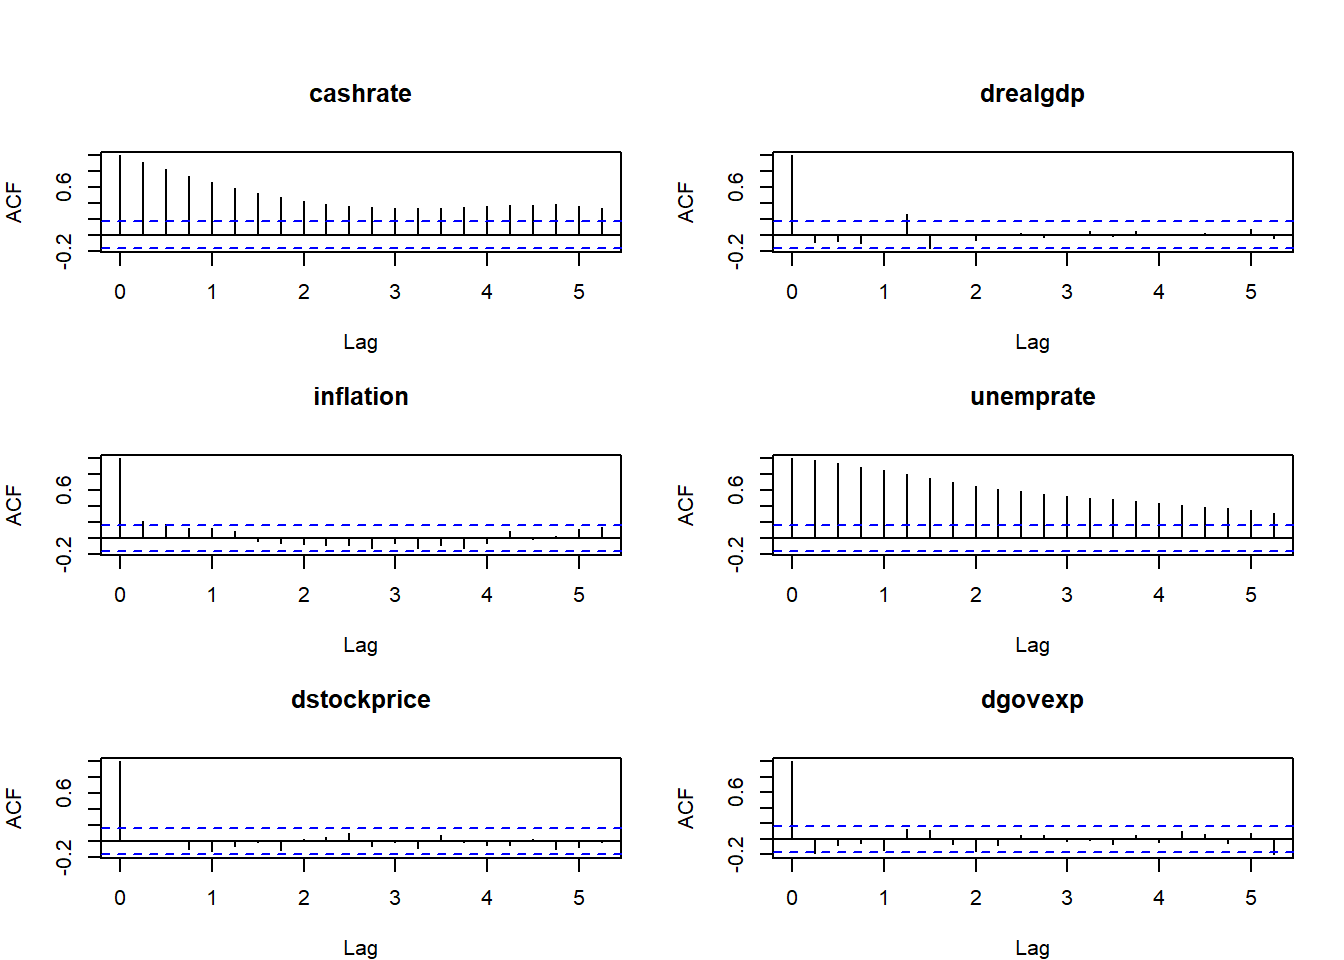
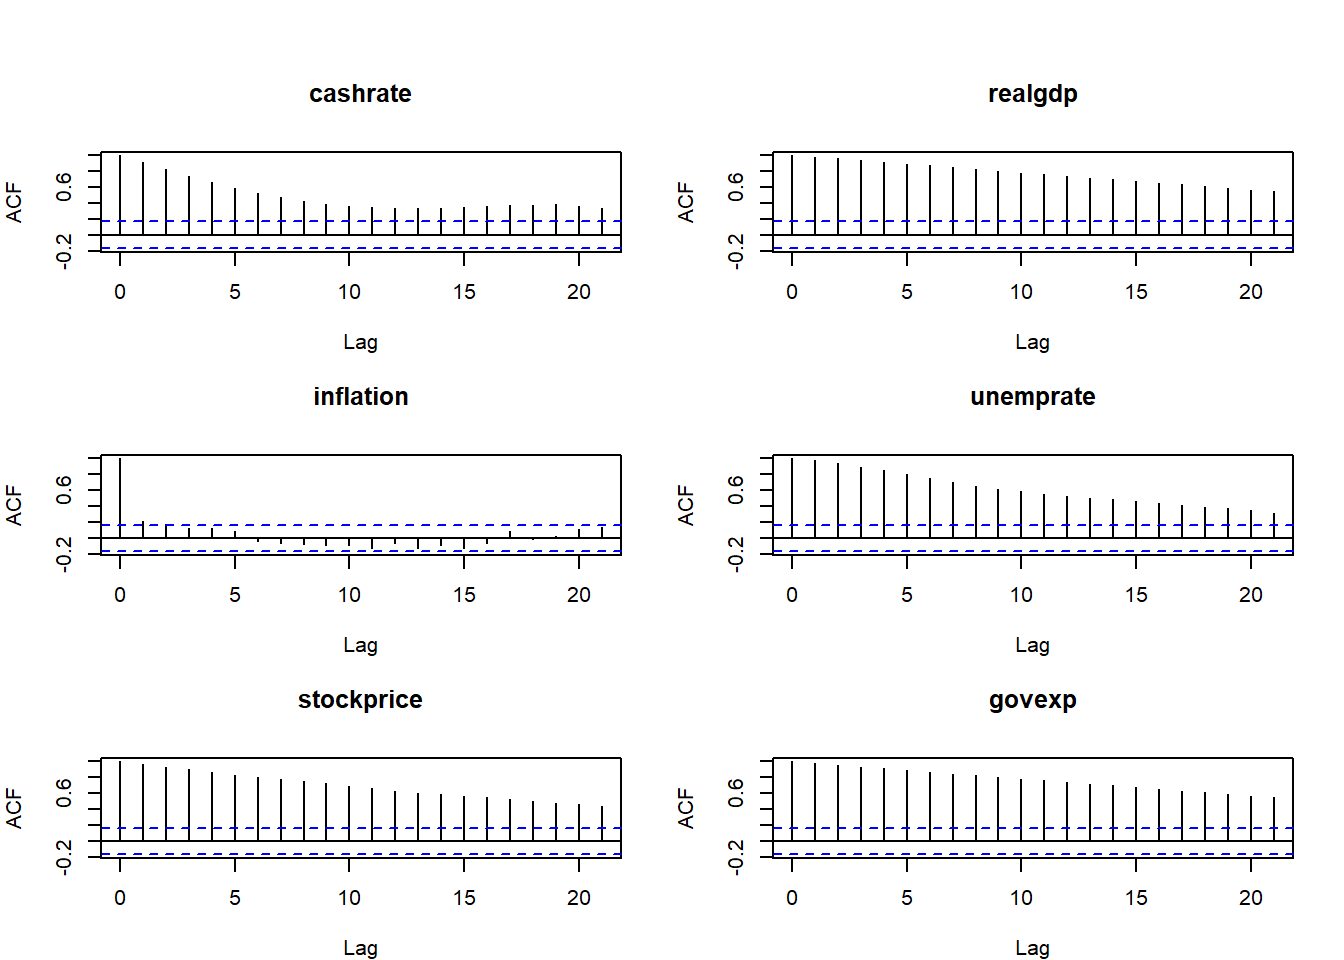
incorporating changes in website

diff --git a/docs/index.html b/docs/index.html
@@ -8,7 +8,7 @@
 
 <meta name="author" content="Pun Suparattanapinan">
 
-<title>Macroeconometrics Research Report - The impact of monetary policy on the real economy and the stock market: The case of Australia</title>
+<title>Macroeconometrics Research Report - The Impact of Monetary Policy on the Real Economy and the Stock Market: The Case of Australia</title>
 <style>
 code{white-space: pre-wrap;}
 span.smallcaps{font-variant: small-caps;}
@@ -166,7 +166,7 @@ window.Quarto = {
 
 <header id="title-block-header" class="quarto-title-block default">
 <div class="quarto-title">
-<h1 class="title">The impact of monetary policy on the real economy and the stock market: The case of Australia</h1>
+<h1 class="title">The Impact of Monetary Policy on the Real Economy and the Stock Market: The Case of Australia</h1>
 </div>
 
 
@@ -217,13 +217,13 @@ window.Quarto = {
 <h5 class="anchored" data-anchor-id="figure-1-time-series-plots-raw-data">Figure 1: time series plots (raw data)</h5>
 </section>
 <p><br></p>
-<p>The author transforms the data in manner that aligns with the purpose of study. The AORD and total government expenditure are adjusted to real terms using the GDP deflator. After that, the author transforms 3 variables that are in real terms, namely GDP, AORD, and total government expenditure, to represent growth by taking the difference of logarithms, denoted by <strong><em>drealgdp</em></strong>, <strong><em>dstockprice</em></strong>, and <strong><em>dgovexp</em></strong> respectively. <a href="#figure-2-time-series-plots-transformed-data">Figure 2: time series plots (transformed data)</a> represents the transformed data, which will be analyzed further.</p>
+<p>The author transforms the data in manner that aligns with the purpose of study. The total government expenditure are adjusted to real terms using the GDP deflator. After that, the author transforms 4 variables which are real GDP, AORD, inflation, and real government expenditure in logarithms term, denoted by <strong><em>realgdp</em></strong>, <strong><em>stockprice</em></strong>, and <strong><em>govexp</em></strong> respectively. <a href="#figure-2-time-series-plots-transformed-data">Figure 2: time series plots (transformed data)</a> represents the transformed data, which will be analyzed further.</p>
 <p><br></p>
 <div class="cell">
 <div class="cell-output-display">
 <div>
 <figure class="figure">
-<p><img src="index_files/figure-html/Plotting the data-1.png" class="img-fluid figure-img" width="672"></p>
+<p><img src="index_files/figure-html/Plotting the transformed data-1.png" class="img-fluid figure-img" width="672"></p>
 </figure>
 </div>
 </div>
@@ -257,12 +257,12 @@ window.Quarto = {
 <td style="text-align: right;">16.750</td>
 </tr>
 <tr class="even">
-<td style="text-align: left;">drealgdp</td>
+<td style="text-align: left;">realgdp</td>
 <td style="text-align: right;">136</td>
-<td style="text-align: right;">0.716</td>
-<td style="text-align: right;">1.016</td>
-<td style="text-align: right;">-7.178</td>
-<td style="text-align: right;">4.062</td>
+<td style="text-align: right;">5.957</td>
+<td style="text-align: right;">0.300</td>
+<td style="text-align: right;">5.434</td>
+<td style="text-align: right;">6.413</td>
 </tr>
 <tr class="odd">
 <td style="text-align: left;">inflation</td>
@@ -281,20 +281,20 @@ window.Quarto = {
 <td style="text-align: right;">11.216</td>
 </tr>
 <tr class="odd">
-<td style="text-align: left;">dstockprice</td>
+<td style="text-align: left;">stockprice</td>
 <td style="text-align: right;">136</td>
-<td style="text-align: right;">0.471</td>
-<td style="text-align: right;">7.431</td>
-<td style="text-align: right;">-29.259</td>
-<td style="text-align: right;">18.273</td>
+<td style="text-align: right;">8.244</td>
+<td style="text-align: right;">0.484</td>
+<td style="text-align: right;">7.154</td>
+<td style="text-align: right;">8.966</td>
 </tr>
 <tr class="even">
-<td style="text-align: left;">dgovexp</td>
+<td style="text-align: left;">govexp</td>
 <td style="text-align: right;">136</td>
-<td style="text-align: right;">0.880</td>
-<td style="text-align: right;">1.472</td>
-<td style="text-align: right;">-3.478</td>
-<td style="text-align: right;">5.183</td>
+<td style="text-align: right;">10.800</td>
+<td style="text-align: right;">0.609</td>
+<td style="text-align: right;">9.811</td>
+<td style="text-align: right;">11.895</td>
 </tr>
 </tbody>
 </table>
@@ -305,7 +305,7 @@ window.Quarto = {
 <h1>Preliminary Results</h1>
 <section id="the-autocorrelation-and-partial-autocorrelation" class="level3">
 <h3 class="anchored" data-anchor-id="the-autocorrelation-and-partial-autocorrelation">The autocorrelation and partial autocorrelation</h3>
-<p>In this section, the autocorrelation and partial autocorrelation analyses are used to detect patterns and check the randomness of time series. <a href="#figure-3-acf-plots">Figure 3: ACF plots</a> show the autocorrelation remains in <em>cashrate</em> and <em>unemprate</em> even after 5 years. The acf of <em>inflation</em> also indicates the significant autocorrelation in first quarter lag, whereas all other variables do not exhibit significant lags. However, in <em>drealgdp</em>, a spike exceeds the 95% confidence interval in fifth quarter lag; nevertheless, this might occur due to a type I error.</p>
+<p>In this section, the autocorrelation and partial autocorrelation analyses are used to detect patterns and check the randomness of time series. <a href="#figure-3-acf-plots">Figure 3: ACF plots</a> show the autocorrelation remains in all variables, even after 5 years, except <em>inflation</em>. The acf of <em>inflation</em> also indicates the significant autocorrelation in first quarter lag, nevertheless, this might occur due to a type I error.</p>
 <div class="cell">
 <div class="cell-output-display">
 <div>
@@ -319,7 +319,7 @@ window.Quarto = {
 <h5 class="anchored" data-anchor-id="figure-3-acf-plots">Figure 3: ACF plots</h5>
 </section>
 <p><br></p>
-<p>For the pacf in <a href="#figure-4-pacf-plots">Figure 4: PACF plots</a>, it is observed that there are significant spike for some lags for all variables except <em>dstockprice</em>.</p>
+<p>For the pacf in <a href="#figure-4-pacf-plots">Figure 4: PACF plots</a>, it is observed that there have not been any significant spikes for all variables.</p>
 <div class="cell">
 <div class="cell-output-display">
 <div>
@@ -336,7 +336,7 @@ window.Quarto = {
 </section>
 <section id="the-unit-root-test" class="level3">
 <h3 class="anchored" data-anchor-id="the-unit-root-test">The unit root test</h3>
-<p>In this section, the Augmented Dickey-Fuller Test (ADF Test) is used to test for the stationarity assumption. The null hypothesis is that the time series data has a unit root (non-stationary). The results are shown in table 2. All of variables except <em>unemprate</em>, can be rejected on the null hypothesis which indicate that these variables are stationary.</p>
+<p>In this section, the Augmented Dickey-Fuller Test (ADF Test) is used to test for the stationarity assumption. The null hypothesis is that the time series data has a unit root (non-stationary). The results are shown in table 2. Only <em>cashrate</em> and <em>inflation</em> can be rejected on the null hypothesis which indicate that these variables are stationary.</p>
 <div class="cell">
 <div class="cell-output-display">
 <table class="table table-sm table-striped small">
@@ -357,10 +357,10 @@ window.Quarto = {
 <td style="text-align: right;">0.02</td>
 </tr>
 <tr class="even">
-<td style="text-align: left;">drealgdp</td>
-<td style="text-align: right;">-5.68</td>
+<td style="text-align: left;">realgdp</td>
+<td style="text-align: right;">-1.30</td>
 <td style="text-align: right;">5</td>
-<td style="text-align: right;">0.01</td>
+<td style="text-align: right;">0.87</td>
 </tr>
 <tr class="odd">
 <td style="text-align: left;">inflation</td>
@@ -375,22 +375,22 @@ window.Quarto = {
 <td style="text-align: right;">0.32</td>
 </tr>
 <tr class="odd">
-<td style="text-align: left;">dstockprice</td>
-<td style="text-align: right;">-5.51</td>
+<td style="text-align: left;">stockprice</td>
+<td style="text-align: right;">-2.57</td>
 <td style="text-align: right;">5</td>
-<td style="text-align: right;">0.01</td>
+<td style="text-align: right;">0.34</td>
 </tr>
 <tr class="even">
-<td style="text-align: left;">dgovexp</td>
-<td style="text-align: right;">-4.83</td>
+<td style="text-align: left;">govexp</td>
+<td style="text-align: right;">-1.84</td>
 <td style="text-align: right;">5</td>
-<td style="text-align: right;">0.01</td>
+<td style="text-align: right;">0.64</td>
 </tr>
 </tbody>
 </table>
 </div>
 </div>
-<p>Then, take the first difference to all variables and rerun the ADF test. The results are shown in table 3. It is reasonable to conclude that <em>unemprate</em> is integrated of order 1, while the others are integrated of order 0, or in other words, they are stationary.</p>
+<p>Then, take the first difference to all variables and rerun the ADF test. The results are shown in table 3. It is reasonable to conclude that all variables except <em>cashrate</em> and <em>inflation</em> is integrated of order 1, while the rest are integrated of order 0, or in other words, they are stationary.</p>
 <div class="cell">
 <div class="cell-output-display">
 <table class="table table-sm table-striped small">
@@ -411,8 +411,8 @@ window.Quarto = {
 <td style="text-align: right;">0.01</td>
 </tr>
 <tr class="even">
-<td style="text-align: left;">ddrealgdp</td>
-<td style="text-align: right;">-8.27</td>
+<td style="text-align: left;">drealgdp</td>
+<td style="text-align: right;">-5.76</td>
 <td style="text-align: right;">5</td>
 <td style="text-align: right;">0.01</td>
 </tr>
@@ -429,16 +429,16 @@ window.Quarto = {
 <td style="text-align: right;">0.01</td>
 </tr>
 <tr class="odd">
-<td style="text-align: left;">ddstockprice</td>
-<td style="text-align: right;">-7.46</td>
+<td style="text-align: left;">dstockprice</td>
+<td style="text-align: right;">-5.47</td>
 <td style="text-align: right;">5</td>
 <td style="text-align: right;">0.01</td>
 </tr>
 <tr class="even">
-<td style="text-align: left;">ddgovexp</td>
-<td style="text-align: right;">-8.92</td>
+<td style="text-align: left;">dgovexp</td>
+<td style="text-align: right;">-3.75</td>
 <td style="text-align: right;">5</td>
-<td style="text-align: right;">0.01</td>
+<td style="text-align: right;">0.02</td>
 </tr>
 </tbody>
 </table>
@@ -448,11 +448,11 @@ window.Quarto = {
 </section>
 <section id="methodology" class="level1">
 <h1>Methodology</h1>
-<p>In this section, the model that this study use to capture the structural relationship between real economy variables and the stock price is introduced. The author use Structural Vector Autoregression (SVAR) model which comprises of 6 variables on the same integrated order, <em>cashrate</em>, <em>drealgdp</em>, <em>inflation</em>, <em>dunemprate</em>, <em>dstockprice</em>, and <em>dgovexp</em>. Subsequently, the model will be used to analyze the impulse responses.</p>
+<p>In this section, the model that this study use to capture the structural relationship between real economy variables and the stock price is introduced. The author use Structural Vector Autoregression (SVAR) model which comprises of 6 variables, <em>cashrate</em>, <em>realgdp</em>, <em>inflation</em>, <em>unemprate</em>, <em>stockprice</em>, and <em>govexp</em>. Subsequently, the model will be used to analyze the impulse responses.</p>
 <p>The <strong>SVAR model</strong> can be shown as follows.</p>
 <span class="math display">\[\begin{align}
 B_0y_t &amp;= b_0 + \sum_{i=1}^{p}B_{i}y_{t-i}+u_t  \\
-u_t|Y_{t-1}&amp;\sim iid(0_N,I_N)
+u_t|Y_{t-1}&amp;\sim iid \mathcal{N} (0_N,I_N)
 \end{align}\]</span>
 <p>where :</p>
 <p><span class="math inline">\(y_{t}\)</span> is <span class="math inline">\(N\times1\)</span> vector of endogenous variables at time t</p>
@@ -462,11 +462,11 @@ u_t|Y_{t-1}&amp;\sim iid(0_N,I_N)
 <p>Specifically, <span class="math inline">\(y_{t}\)</span> contains 6 variables as follows. <span class="math display">\[
 y_t = \begin{pmatrix}
 \text{cashrate} \\
-\text{drealgdp} \\
+\text{realgdp} \\
 \text{inflation} \\
-\text{dunemprate} \\
-\text{dstockprice} \\
-\text{dgovexp}
+\text{unemprate} \\
+\text{stockprice} \\
+\text{govexp}
 \end{pmatrix}
 \]</span></p>
 <p>The <strong>reduced form</strong> can be shown as follows.</p>
